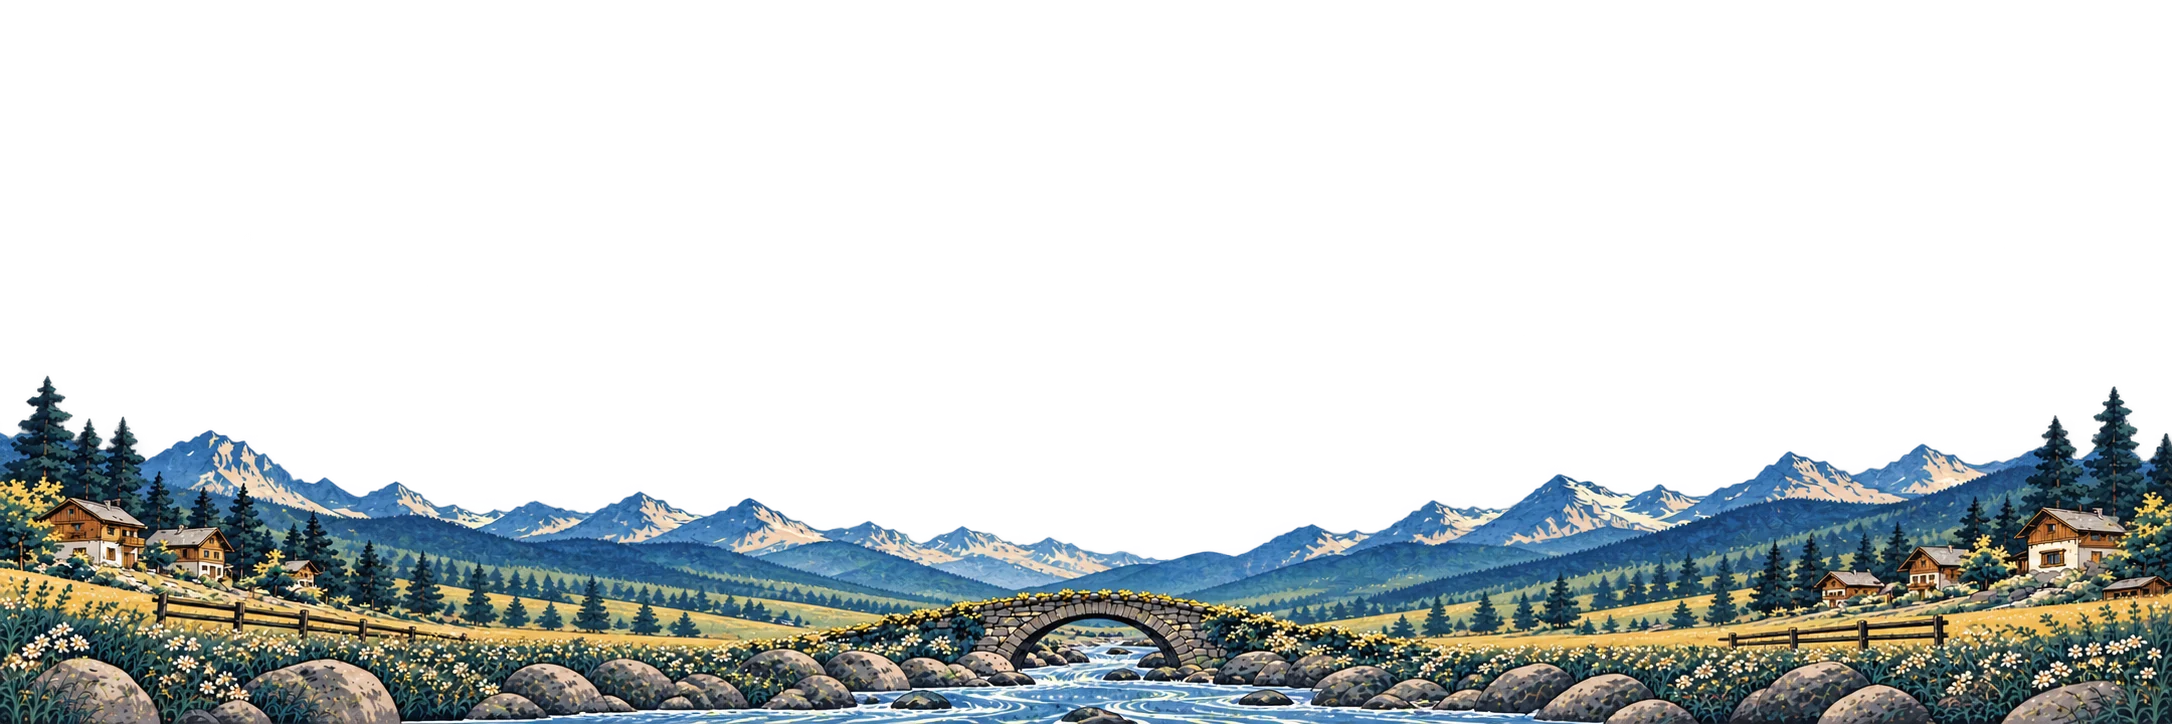
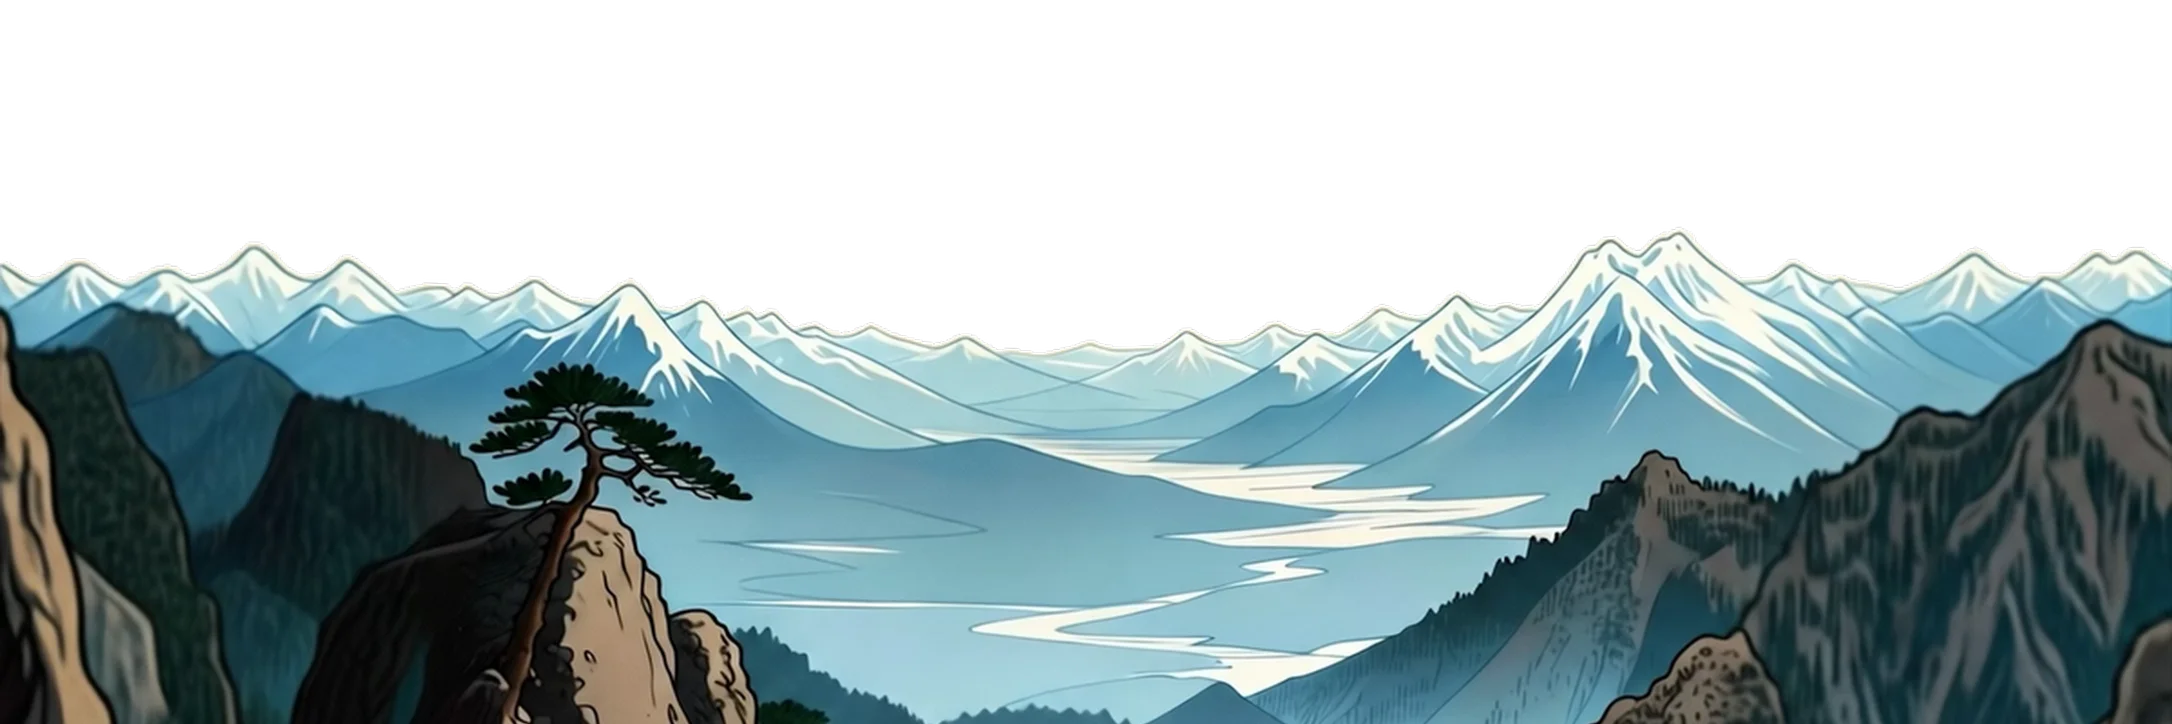
Woodblock mountain town: Scott's mountain-overlook print, every light
Snowy peaks over a river valley from a pine-topped cliff, cut to the
woodblock band (2172x724) with its far horizon sunk in the middle like
the old art's. One picture for daytime, dusk and night; the old dusk and
night prints are removed. Built by scripts/scenery/woodblock_mountain_overlook.py.

Claude-Session: https://claude.ai/code/session_01QJk9i6BwK2EN4xNjFvTsTh

diff --git a/src/components/place/panoramas.ts b/src/components/place/panoramas.ts
@@ -44,10 +44,6 @@ import woodblock_small_city_nighttime from '@/assets/scenery/woodblock/small-cit
 import woodblock_small_city_nighttime_veil from '@/assets/scenery/woodblock/small-city-nighttime-veil.webp'
 import woodblock_mountain_town_daytime from '@/assets/scenery/woodblock/mountain-town-daytime.webp'
 import woodblock_mountain_town_daytime_veil from '@/assets/scenery/woodblock/mountain-town-daytime-veil.webp'
-import woodblock_mountain_town_dusk_dawn from '@/assets/scenery/woodblock/mountain-town-dusk-dawn.webp'
-import woodblock_mountain_town_dusk_dawn_veil from '@/assets/scenery/woodblock/mountain-town-dusk-dawn-veil.webp'
-import woodblock_mountain_town_nighttime from '@/assets/scenery/woodblock/mountain-town-nighttime.webp'
-import woodblock_mountain_town_nighttime_veil from '@/assets/scenery/woodblock/mountain-town-nighttime-veil.webp'
 import woodblock_cabin_daytime from '@/assets/scenery/woodblock/cabin-daytime.webp'
 import woodblock_cabin_daytime_veil from '@/assets/scenery/woodblock/cabin-daytime-veil.webp'
 import woodblock_cabin_dusk_dawn from '@/assets/scenery/woodblock/cabin-dusk-dawn.webp'
@@ -107,6 +103,8 @@ export const PANORAMAS: Record<PlaceId, Record<SceneryLighting, Panorama>> = {
 // the land, with matching veils (skyline: scripts/scenery/woodblock-manifest.json).
 // They stand under the same place-tinted CSS sky as the painted art; keep
 // their transparent padding (the veil and skyline are measured against it).
+const MOUNTAIN_OVERLOOK: Panorama = { src: woodblock_mountain_town_daytime, veil: woodblock_mountain_town_daytime_veil, skyline: 0.3171 }
+
 export const WOODBLOCK: Record<PlaceId, Record<SceneryLighting, Panorama>> = {
   'urban': {
     'daytime': { src: woodblock_urban_daytime, veil: woodblock_urban_daytime_veil, skyline: 0.6705 },
@@ -118,10 +116,14 @@ export const WOODBLOCK: Record<PlaceId, Record<SceneryLighting, Panorama>> = {
     'dusk-dawn': { src: woodblock_small_city_dusk_dawn, veil: woodblock_small_city_dusk_dawn_veil, skyline: 0.6641 },
     'nighttime': { src: woodblock_small_city_nighttime, veil: woodblock_small_city_nighttime_veil, skyline: 0.6643 },
   },
+  // Scott's mountain-overlook print (2026-10-30), one picture for every
+  // light — it has no dusk or night version. Cut by
+  // scripts/scenery/woodblock_mountain_overlook.py; it stands taller than
+  // the other woodblock places, so its skyline sits higher.
   'mountain-town': {
-    'daytime': { src: woodblock_mountain_town_daytime, veil: woodblock_mountain_town_daytime_veil, skyline: 0.6346 },
-    'dusk-dawn': { src: woodblock_mountain_town_dusk_dawn, veil: woodblock_mountain_town_dusk_dawn_veil, skyline: 0.6309 },
-    'nighttime': { src: woodblock_mountain_town_nighttime, veil: woodblock_mountain_town_nighttime_veil, skyline: 0.6318 },
+    'daytime': MOUNTAIN_OVERLOOK,
+    'dusk-dawn': MOUNTAIN_OVERLOOK,
+    'nighttime': MOUNTAIN_OVERLOOK,
   },
   'cabin': {
     'daytime': { src: woodblock_cabin_daytime, veil: woodblock_cabin_daytime_veil, skyline: 0.668 },

diff --git a/src/components/place/panoramas.test.ts b/src/components/place/panoramas.test.ts
@@ -12,10 +12,18 @@ describe('scenery style resolution', () => {
         expect(art).toBe(WOODBLOCK[id][light])
         expect(art.src).not.toBe(PANORAMAS[id][light].src)
         expect(art.veil).not.toBe(art.src)
-        expect(art.skyline).toBeGreaterThan(0.6)
+        // The mountain overlook (2026-10-30) stands taller than the cut
+        // prints, so its skyline sits higher in the band.
+        expect(art.skyline).toBeGreaterThan(id === 'mountain-town' ? 0.3 : 0.6)
         expect(art.skyline).toBeLessThan(0.7)
       }
     }
+  })
+
+  it('shows the mountain overlook in every light', () => {
+    const day = sceneryArt('woodblock', 'mountain-town', 'daytime')
+    expect(sceneryArt('woodblock', 'mountain-town', 'dusk-dawn')).toBe(day)
+    expect(sceneryArt('woodblock', 'mountain-town', 'nighttime')).toBe(day)
   })
 
   it('leaves the painted style exactly as it was', () => {

diff --git a/scripts/scenery/woodblock_mountain_overlook.py b/scripts/scenery/woodblock_mountain_overlook.py
@@ -1,0 +1,93 @@
+"""Cut Scott's mountain-overlook print into the Woodblock "Small Mountain Town" art.
+
+The source (2026-10-30) is a single 1200x1200 woodblock-style painting: a
+letterboxed vista of snowy peaks over a river valley, seen from a pine-topped
+cliff. It replaces all three lights of the woodblock mountain town; there is
+no dusk or night version, so one picture serves every light.
+
+Steps:
+  1. drop the black letterbox and key the painted sky to transparency (the
+     sky is the smooth region connected to the top; the print's ink outlines
+     stop it at the peaks);
+  2. scale to the woodblock set's 2172px width and place it in a 2172x724
+     band so the land's median top sits at row 262 (chosen against the old
+     art on Scott's Today page: the peaks, the river and the pine all show);
+  3. sink the far horizon in the middle, as the old art's skyline dips there,
+     with a displacement that is full at the horizon and fades to nothing at
+     the bottom edge, so the cliffs and pines in front do not move;
+  4. write the veil (where page content is concealed: under the skyline,
+     fading in over FADE px above it) and the skyline fraction for panoramas.ts.
+
+Usage: uv run --with numpy --with scipy --with pillow python
+  scripts/scenery/woodblock_mountain_overlook.py <source.png> <out-dir>
+Writes mountain-overlook.png and mountain-overlook-veil.png; convert both to
+WebP with cwebp. Prints the skyline.
+"""
+import sys
+from pathlib import Path
+
+import numpy as np
+from PIL import Image
+from scipy import ndimage as ndi
+
+SRC = Path(sys.argv[1])
+OUT = Path(sys.argv[2])
+OUT.mkdir(parents=True, exist_ok=True)
+
+W, H = 2172, 724          # the woodblock set's band size
+LAND_TOP = 262            # the land's median top row in the band
+DIP, DIP_WIDTH = 70, 0.20  # how far the horizon sinks mid-band, and over how wide a share
+FADE = round(64 * W / 1506)  # extract_landscapes.py's FADE, at this width
+
+
+def key_sky(rgb):
+    """Alpha for the land: everything not connected to the sky at the top."""
+    g = np.sqrt((ndi.sobel(rgb, axis=0) ** 2 + ndi.sobel(rgb, axis=1) ** 2).sum(2))
+    smooth = g < 300          # paper grain stays under it; ink outlines do not
+    smooth[260:] = False      # nothing that low is sky
+    labels, _ = ndi.label(smooth)
+    sky = np.isin(labels, list(set(np.unique(labels[60])) - {0}))
+    sky = ndi.binary_closing(sky, iterations=2, border_value=1)
+    sky[:140] = True          # the deep-blue top band is all sky
+    return ndi.gaussian_filter((~sky).astype(float), 0.8)
+
+
+def envelope(alpha):
+    solid = alpha > 0.5
+    first = np.where(solid.any(0), solid.argmax(0), alpha.shape[0]).astype(float)
+    return ndi.gaussian_filter1d(ndi.minimum_filter1d(first, 81), 25)
+
+
+rgb = np.asarray(Image.open(SRC).convert('RGB')).astype(float)
+rows = np.where(rgb.mean(2).mean(1) > 25)[0]
+rgb = rgb[rows.min() + 2:rows.max() - 1]
+alpha = key_sky(rgb)
+
+# Scale to the band's width, premultiplied so the keyed edge carries no sky.
+rgba = np.dstack([rgb * alpha[..., None], alpha * 255]).clip(0, 255).astype(np.uint8)
+img = Image.fromarray(rgba, 'RGBA')
+img = img.resize((W, round(img.height * W / img.width)), Image.LANCZOS)
+pm = np.asarray(img).astype(float)
+offset = int(np.median(envelope(pm[..., 3] / 255))) - LAND_TOP
+
+# One remap does both the placement and the dip.
+x = np.arange(W) / W
+dip = DIP * np.exp(-((x - 0.5) / DIP_WIDTH) ** 2)
+yy, xx = np.mgrid[0:H, 0:W].astype(float)
+weight = np.clip((H - yy) / (H - 250), 0, 1)  # full from row 250 up
+src = yy + offset - dip[None, :] * weight
+out = np.dstack([ndi.map_coordinates(pm[..., c], [src, xx], order=1, mode='nearest') for c in range(4)])
+a = out[..., 3:4]
+out[..., :3] = np.where(a > 0.5, out[..., :3] * 255 / np.clip(a, 1e-3, None), 0)
+out[..., 3] = np.where(src[..., None] < 0, 0, a)[..., 0]
+art = out.clip(0, 255).round().astype(np.uint8)
+Image.fromarray(art, 'RGBA').save(OUT / 'mountain-overlook.png')
+
+land = art[..., 3] / 255.0
+env = envelope(land)
+t = np.clip((yy - (env[None, :] - FADE)) / (0.8 * FADE), 0, 1)
+veil = np.maximum(t * t * (3 - 2 * t), land)
+Image.fromarray(np.dstack([np.full(veil.shape + (3,), 255.0), veil * 255]).round().astype(np.uint8), 'RGBA') \
+    .save(OUT / 'mountain-overlook-veil.png')
+middle = env[int(W * 0.2):int(W * 0.8)]
+print('skyline', round(float(middle.min()) / H, 4))
